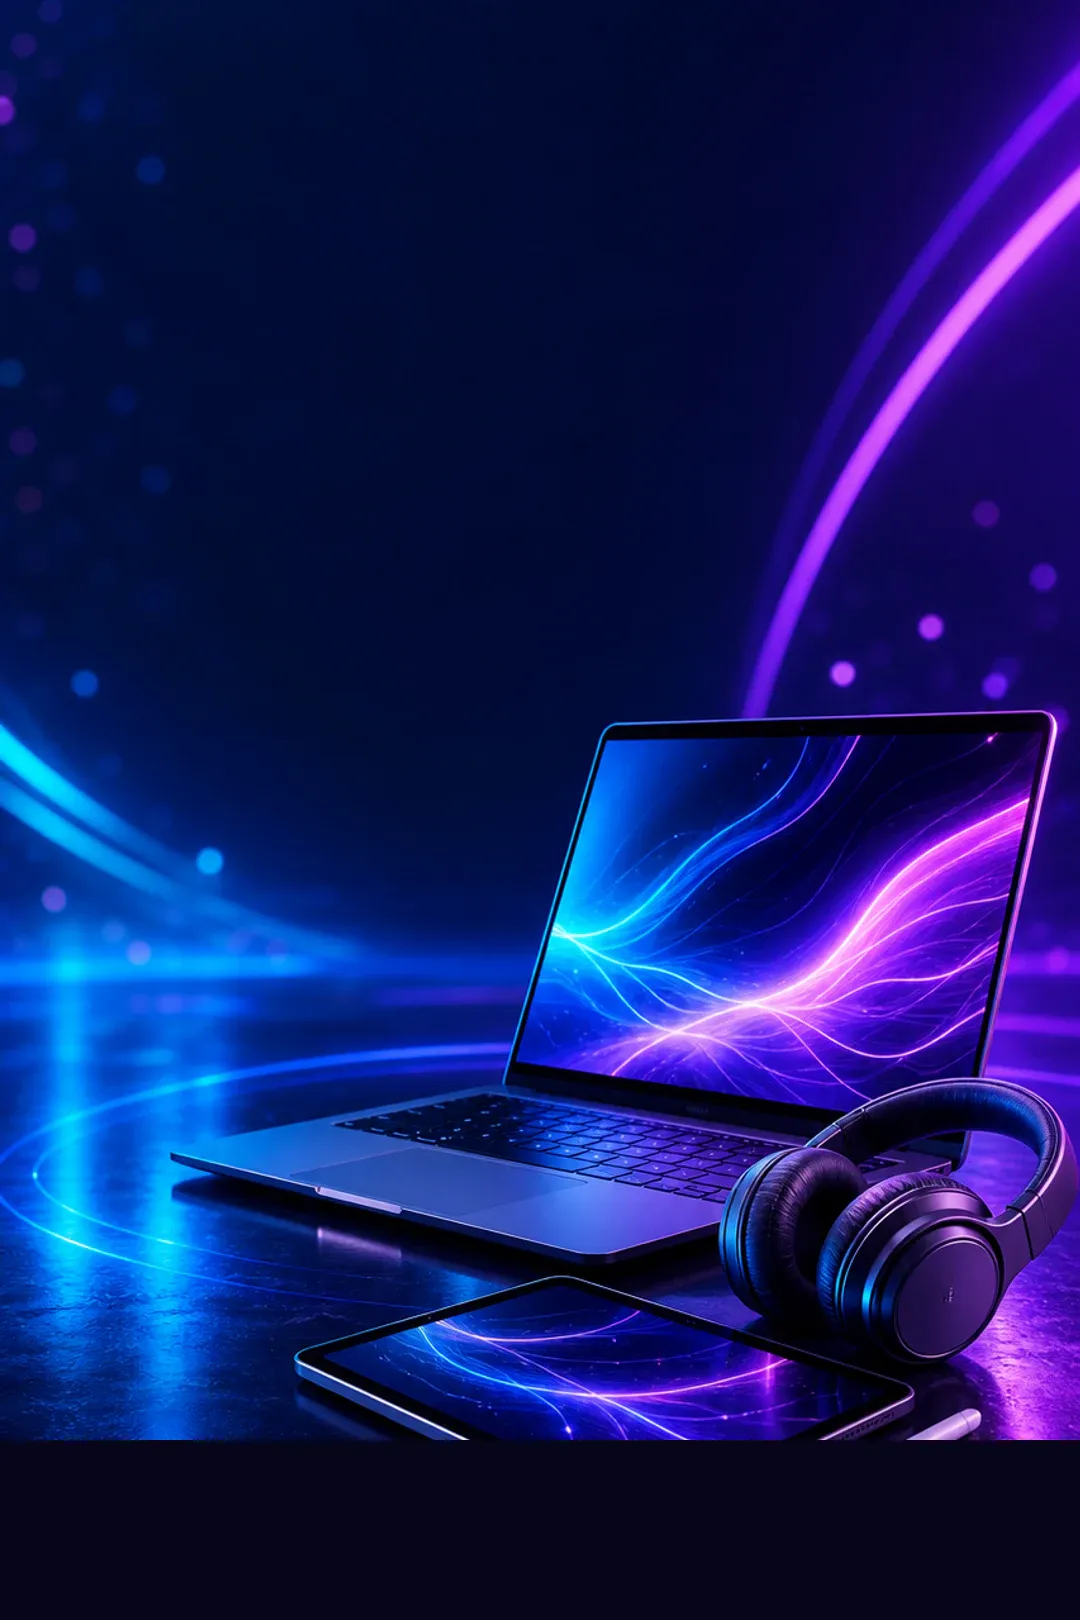
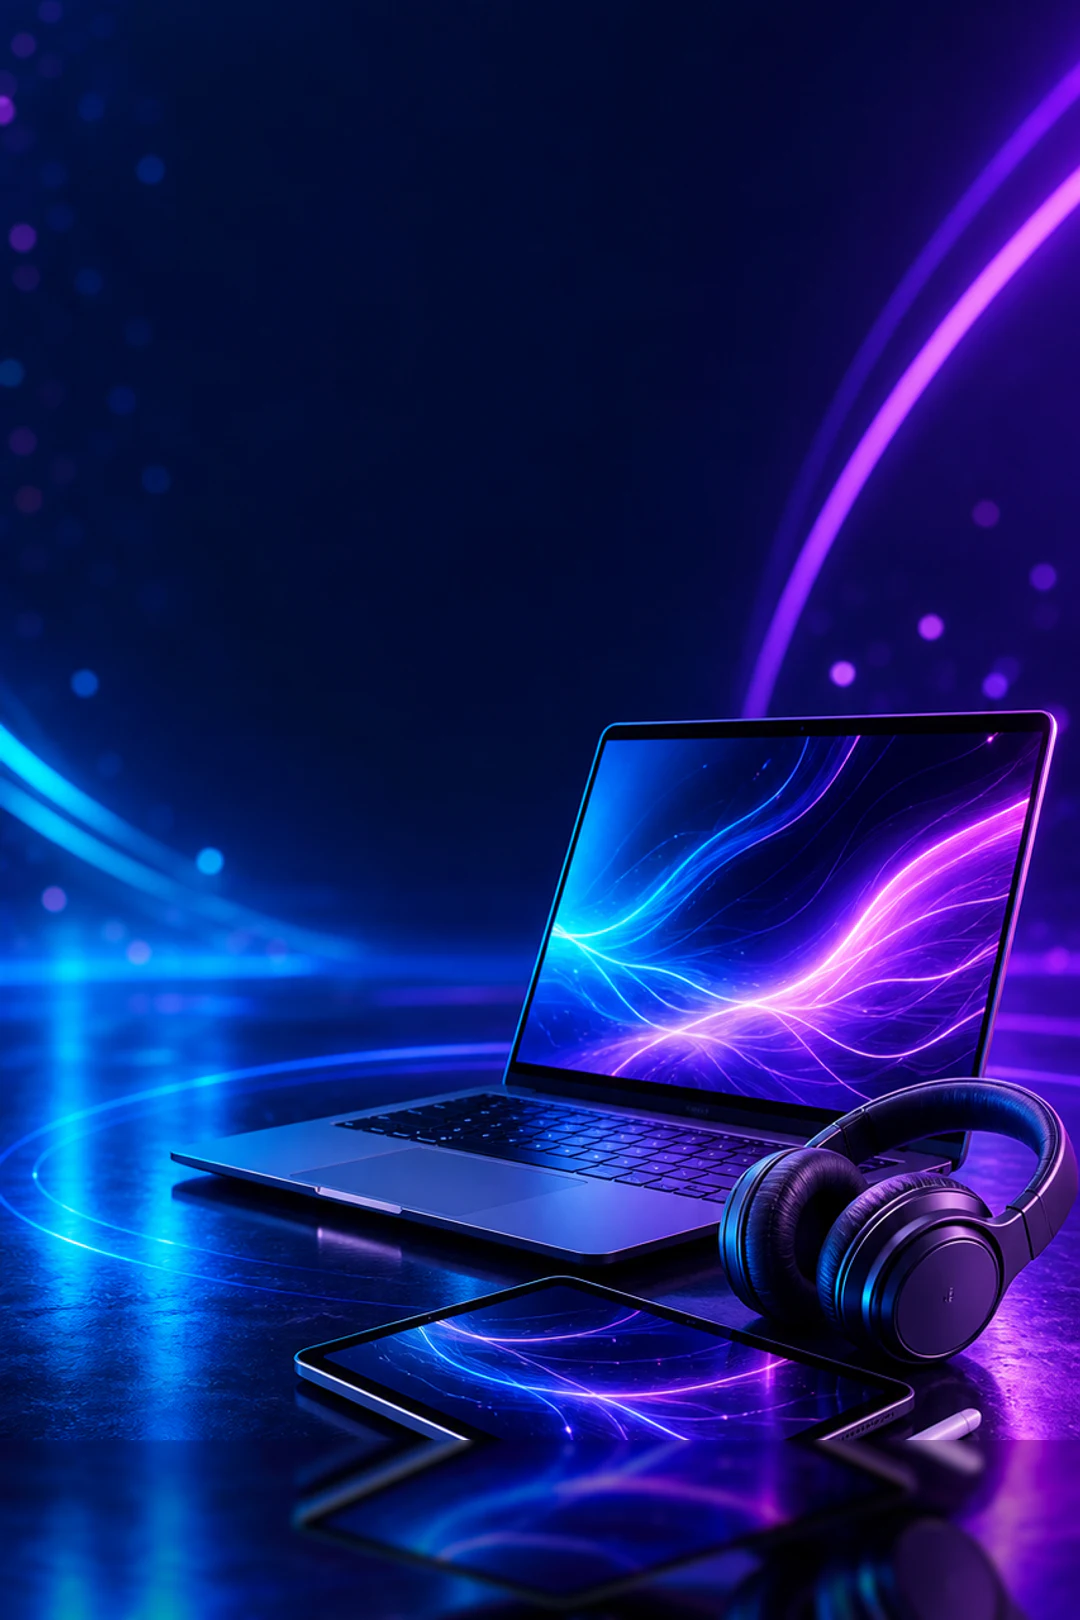
Remove mobile hero bottom gap

Changed region(s): [[0.0, 0.8642, 1.0, 1.0]]

diff --git a/src/app/globals.css b/src/app/globals.css
@@ -578,13 +578,13 @@
 
   @media (max-width: 1023px) {
     .launch-hero::after {
-      background-image: url("/images/home/hero-premium-selection-mobile.webp?v=3");
+      background-image: url("/images/home/hero-premium-selection-mobile.webp?v=4");
       background-position: center;
       background-size: cover;
     }
 
     .launch-hero-workspace::after {
-      background-image: url("/images/home/hero-workspace-mobile.webp?v=3");
+      background-image: url("/images/home/hero-workspace-mobile.webp?v=4");
       background-position: center;
     }
 
